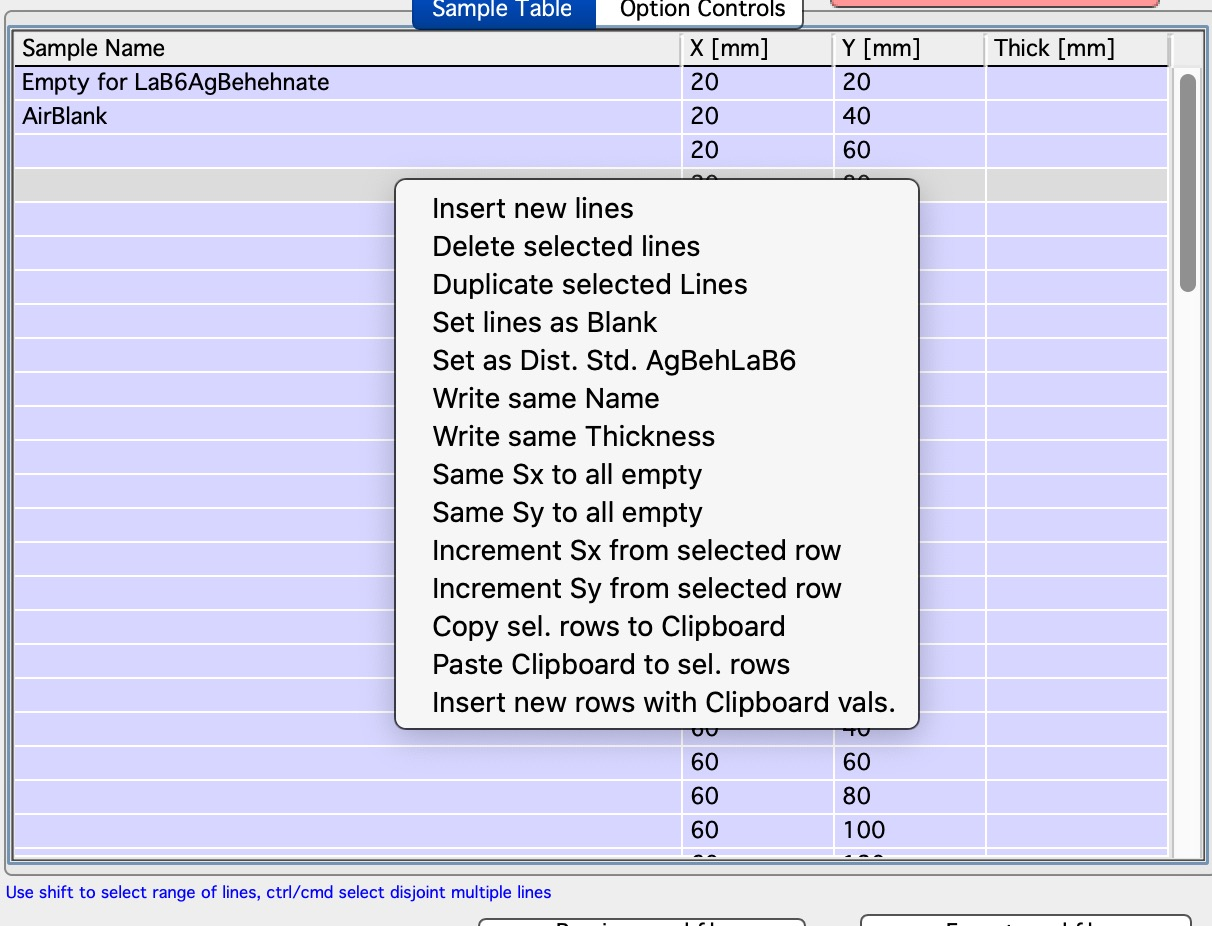
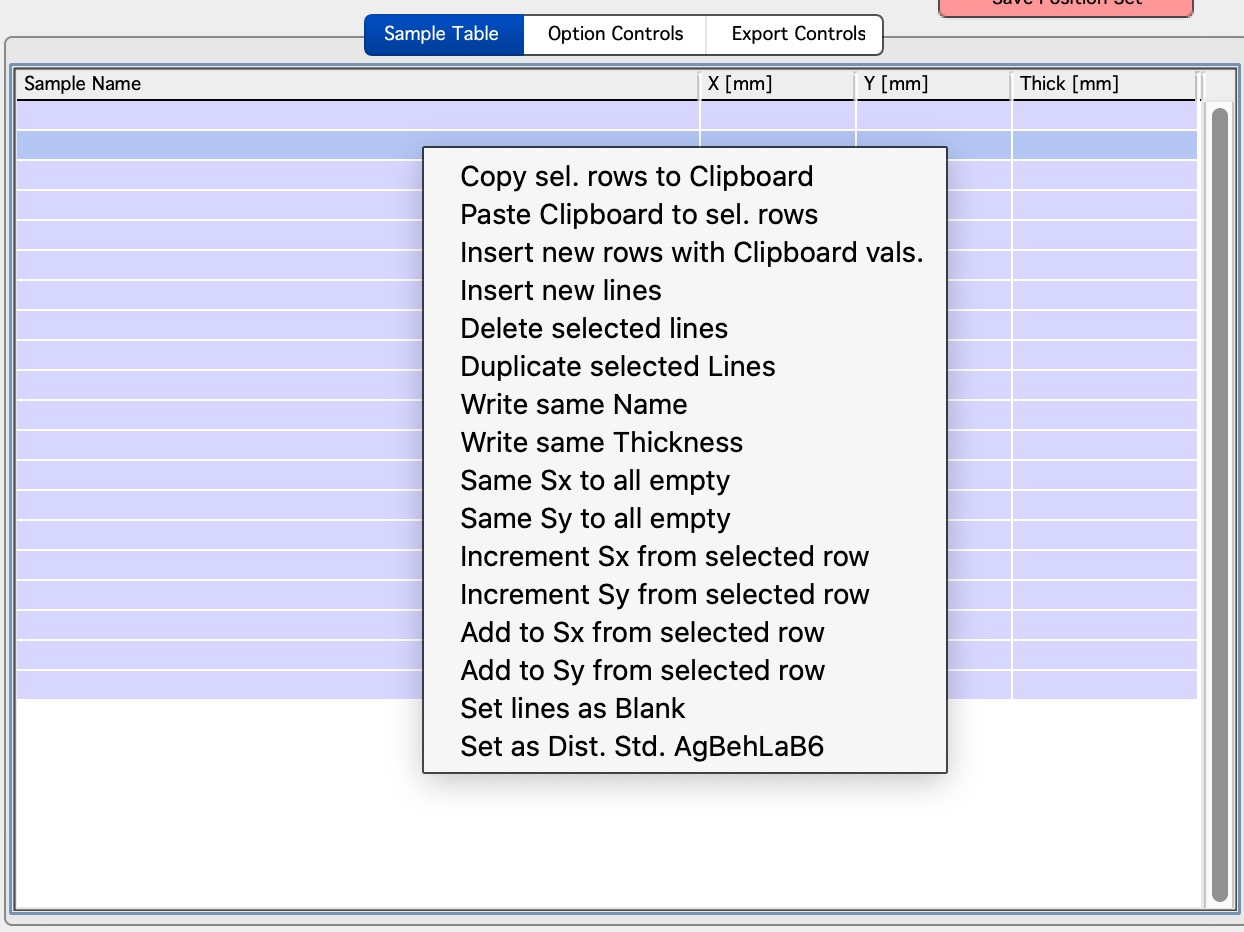
Sample Plate survey
Added Export Controls tab description

diff --git a/docs/source/Indra/SamplePlateSurvey.rst b/docs/source/Indra/SamplePlateSurvey.rst
@@ -72,6 +72,7 @@ Tool Description
  * Top Controls
  * Tab with Sample Table
  * Tab with Options control
+ * Tab with Export Controls
  * Bottom area with output buttons.
  * And message which reports to user last action he/she did!
 
@@ -139,19 +140,22 @@ Here user needs to fill the important details needed by USAXS/SAXS/WAXS instrume
            :width: 480px
            :figwidth: 500px
 
+
+*Copy sel. rows to Clipboard*    Copies values in one or more selected rows into "Clipboard" and saves it for later use. There is only ONE Clipboard available to users, copying selected rows in Clipboard will overwrite all existing content in the Clipboard.
+
+*Paste Clipboard to sel. rows*    Paste the values stored using above "Copy row values to Clipboard" command into the selected rows. Overwrites existing values.  *Important: you need to select same number of target rows as is in Clipboard stored EXCEPT when only single row is stored in Clipboard. If only one row is stored, its (same) content is copied in each selected row. When multiple rows are stored, content of each stored row pasted (in order) in selected target rows.* Note: Clipboard is not emptied by this command, same content can be pasted many times.
+
+*Insert new rows with Clipboard vals.*    Inserts needed number of new rows below the top selected row and pastes the values stored by above "Copy row values to Clipboard" command into the new rows. In this case all rows from clipboard are pasted as single block below the *top selected row* in the table. Even if rows in Clipboard were originally not contiguous range (clipboard has no record of original position of the content). *If multiple lines* are selected, *ONLY the TOP selected row* is considered for location and other selections are ignored. Note: Table Clipboard is not emptied by this command, same content can be pasted many times.
+
 *Insert new lines*    Inserts one row in the selected row, moving the rest down.
 
 *Delete selected lines*    Deletes selected rows, rest moves up.
 
 *Duplicate selected lines*    Inserts a new row in the Sample Table. The new row is filled with values from the row which is being duplicated. Useful when you need to measure sample twice in positions close together. Duplicate line, change sx and/or sy and done.
 
-*Set lines as Blank*    Writes in Sample name string Blank
+*Write same Name*    Asks for string and where to write inputs; write this this string into all indicated Sample Name fields. Useful when many samples have same prefix and user needs to just append index or code.
 
-*Set as Dist. Std. AgbehLaB6*    Writes in Sample names string "AgBehenateLaB6" to indicate positions are used by standard.
-
-*Write same name*    Asks for string and where to write inputs; write this this string into all indicated Sample Name fields. Useful when many samples have same prefix and user needs to just append index or code.
-
-*Write same thickness*    Asks for value and where to write inputs; writes this thickness value as instructed. Useful when many samples have same thickness. Note the default thickness on second tab if all samples have same thickness.
+*Write same Thickness*    Asks for value and where to write inputs; writes this thickness value as instructed. Useful when many samples have same thickness. Note the default thickness on second tab if all samples have same thickness.
 
 *Same Sx to all empty*    Asks user for sx value and this one is filled in all empty sx fields in the table. SX fields which contain any number are not changed.
 
@@ -161,11 +165,13 @@ Here user needs to fill the important details needed by USAXS/SAXS/WAXS instrume
 
 *Increment Sy from selected row*    Takes value for sy in the selected row, asks user for step and inserts incremented sy values to all higher rows. Step can be negative. Great if user needs to step through the sample at fixed distances.
 
-*Copy row values to Clipboard*    Copies values in selected rows into "Clipboard" and saves it for later use. There is only ONE Clipboard available to users, copying selected rows in Clipboard will overwrite all existing content in the Clipboard.
+*Add to Sx from selected row*    Starting from selected row down, adds constant to each sx value. This is useful when you need to shift all measurements points by the same value.
 
-*Paste Clipboard to rows*    Paste the values stored using above "Copy row values to Clipboard" command into the selected rows. Overwrites existing values.  *Important: you need to select same number of target rows as is in Clipboard stored EXCEPT when only single row is stored in Clipboard. If only one row is stored, its (same) content is copied in each selected row. When multiple rows are stored, content of each stored row pasted (in order) in selected target rows.* Note: Clipboard is not emptied by this command, same content can be pasted many times.
+*Add to Sy from selected row*    Starting from selected row down, adds constant to each sy value. This is useful when you need to shift all measurements points by the same value.
 
-*Insert new rows with Clipboard*    Inserts needed number of new rows below the top selected row and pastes the values stored by above "Copy row values to Clipboard" command into the new rows. In this case all rows from clipboard are pasted as single block below the *top selected row* in the table. Even if rows in Clipboard were originally not contiguous range (clipboard has no record of original position of the content). *If multiple lines* are selected, *ONLY the TOP selected row* is considered for location and other selections are ignored. Note: Table Clipboard is not emptied by this command, same content can be pasted many times.
+*Set lines as Blank*    Writes in Sample name string Blank
+
+*Set as Dist. Std. AgbehLaB6*    Writes in Sample names string "AgBehenateLaB6" to indicate positions are used by standard.
 
 
 Table Clipboard can now handle one or many selected lines from the table. Most tools handle multiple selected lines, hopefully logically... If more functionality is needed, let me know.
@@ -224,7 +230,48 @@ Sometimes we need to modify data collection in way which is rare and difficult t
 |	  IN3S_WriteListOfCommands(listWaveG, LBSelectionWvG, 0, 1, "_B")
 | end
 
+*******
 
+**Export Controls**
+
+Normally, user prepares and saves one or more "Position Sets" and exports one at time into command file. This is typical use of this tool.
+
+However, some users need to prepare multiple "Positions sets" and then run all at once. This is typically when user mounts number of different samples on one plate and each sample needs more complicated data collection points arrangement. It would be possible to prepare one really complicated position set (=table) with all of these samples, placed one after another, but often it is better to prepare many "Position sets" and then combine them together. Also, if all measurement positions are in one large table, each geometry will be done in one group. This may not be ideal, if there are samples with different priorities.
+
+One option is to use button "Append to cmd file" (see below). But that gets cumbersome quickly also.
+
+*Export Controls* tab provides better control of merging multiple saved "Position sets" into one large command file. See figure.
+
+.. Figure:: media/SamplePlate8.jpg
+           :align: left
+           :width: 330px
+           :figwidth: 350px
+
+
+Radio button *Export Current set?* will export whatever is in the current Position set (table) on tab 1, when "Export", "Append", or "Preview" buttons are used. This is default = normal behavior.
+
+Radio button *Export list of sets below?* will show the controls as seen in the figure and when used, Position sets will be exported in order from top to bottom, as they are in the right hand side Listbox. Available saved Position sets are in the left hand side Listbox.
+
+You drag-and-drop names from left to right and can insert new ones anywhere - before, between, or after already present names. You right-click on the right hand listbox to get command to delete selected name. You can use Position sets multiple times, if needed.
+
+You cannot reorder any columns by drag-and-drop - add sets to right as needed and delete ones which you do not need.
+
+List on the left hand side is updated when you change tabs to reflect all available saved Position sets.
+
+*What will happen ?* When you create list in the right hand listbox (e.g., like in the figure above: test2, test1, test3) and then push button "Preview" or "Export" or "Append", the code will:
+1. save current table content as temporary with unique temp name.
+2. loads first set on the list in the tool (here test2) and creates output notebook using settings saved with that Position set.
+3. loads next set on the list (here test1) and appends to notebook using its settings
+4. loads next, exports, etc... Until done with the list of Position sets in the right hand listbox.
+5. when done with all, restores content to the table from saved temporary storage and deletes these saved data.
+6. uses the merged commands in the output notebook and does whatever the button was suppose to do - Preview, Export, Append.
+
+*Important*
+
+* Save your current Position set, especially if you plan to use it. Button should be green - not red.
+* Each set has its own "Option controls" saved and restored, so if you want to measure only some geometries for some sets, this needs to be selected at the time of saving.
+* If you are using Hook function, it is run at the time of handling each set. So if you Hook function creates multiple measurement positions for each sample, these are grouped together.
+* Verify you like what you see using "Preview" button. Things can get complicated.  
 
 *******
 
